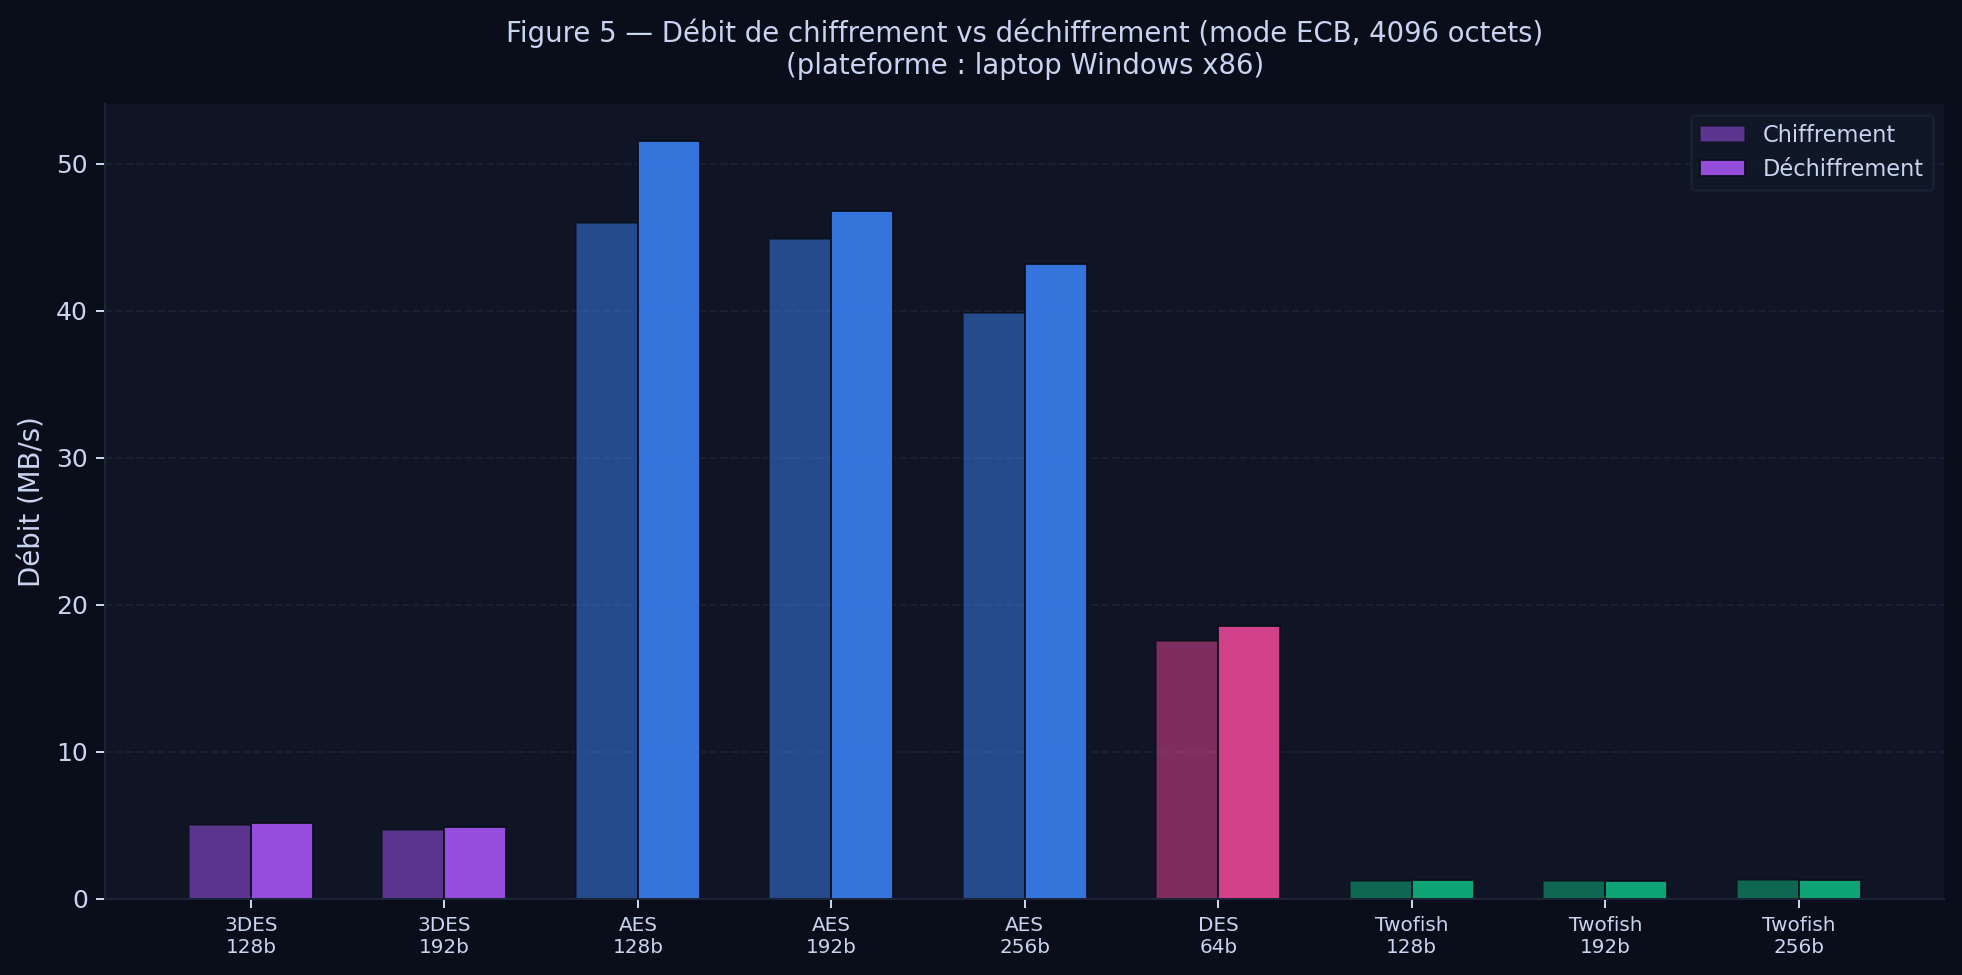
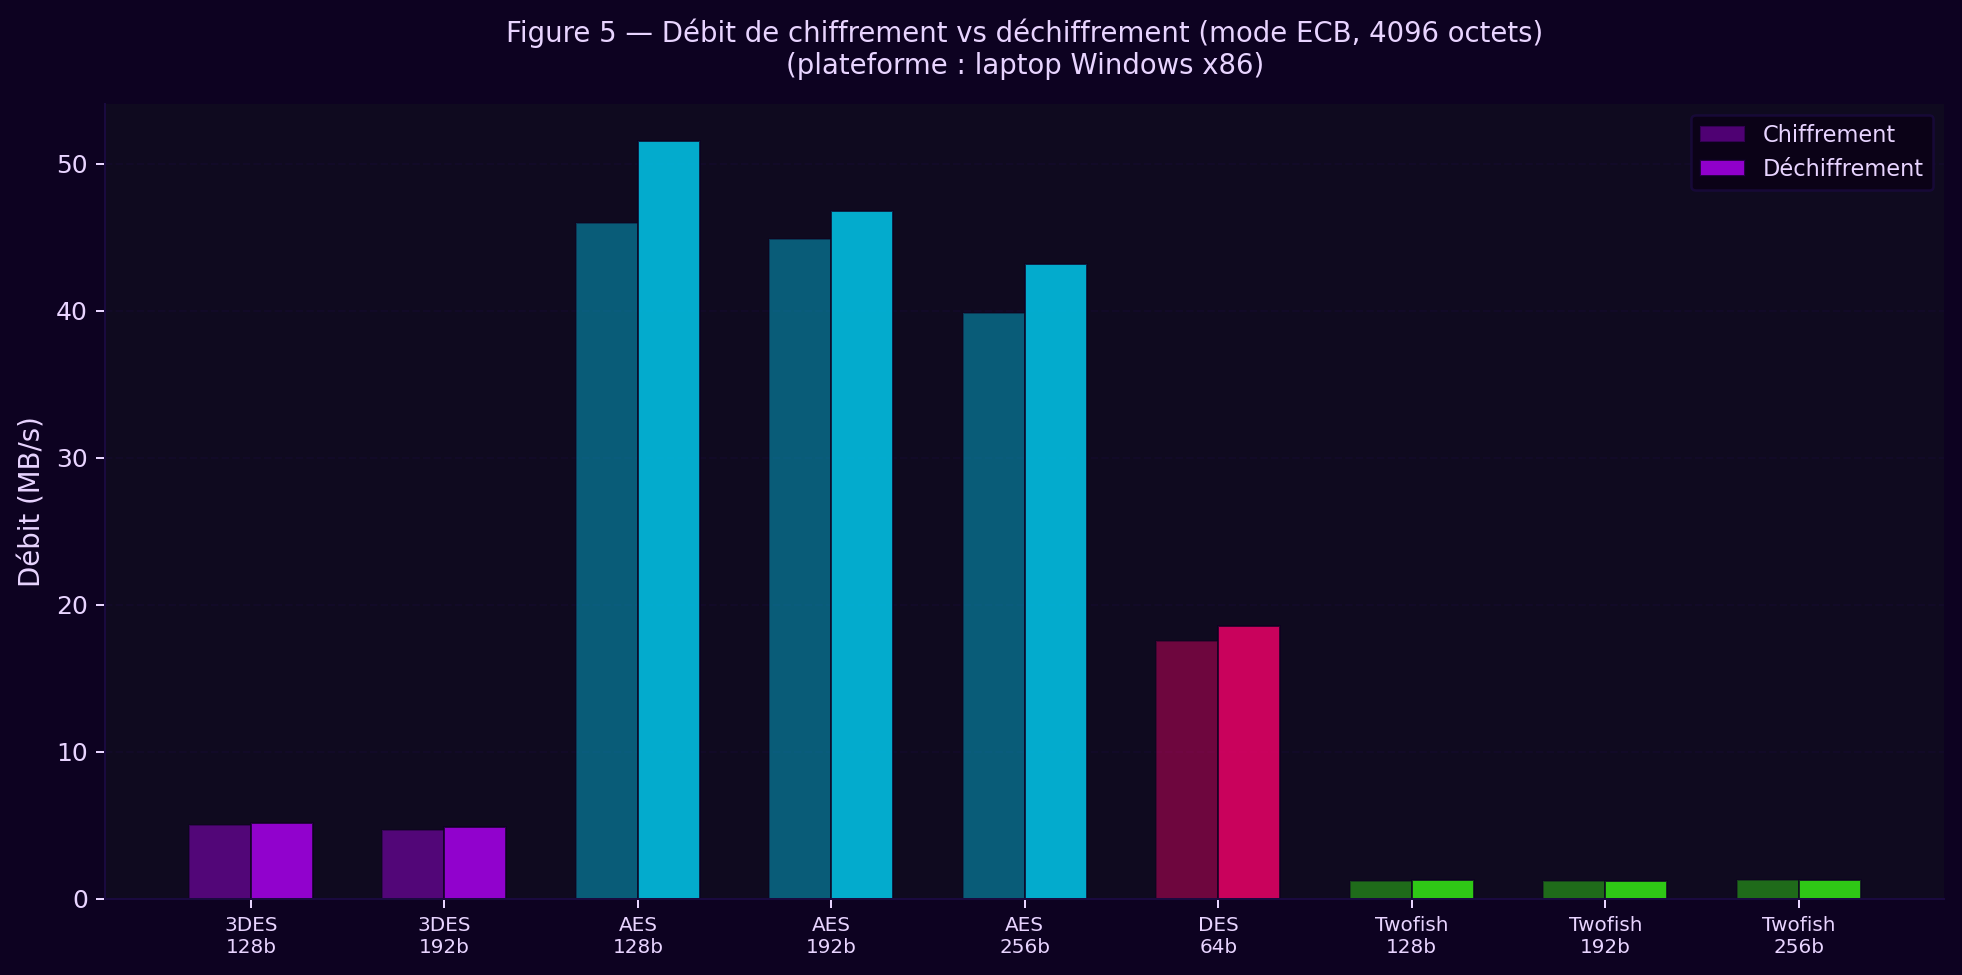
Modernize charts with cyberpunk neon aesthetic ✨
- Updated color palette to vibrant neon colors:
  * Deep purple backgrounds (#0D0221, #0F0A1F)
  * Neon cyan, hot magenta, electric purple, lime green, neon pink
  * Subtle soft lavender text for contrast
- Increased translucency for modern glass/layered effect:
  * Bar alpha: 0.82 → 0.7 (more transparent)
  * Lines alpha: 0.92 → 0.85 (layered effect)
  * Grid alpha: 0.8 → 0.3 (subtle background)
  * Paired bars: 0.50 → 0.4, 0.88 → 0.78 (better contrast)
- Regenerated all 12 charts with new palette and effects

diff --git a/crypto-experiments/scripts/generate_charts.py b/crypto-experiments/scripts/generate_charts.py
@@ -61,12 +61,12 @@ with open(CSV_PATH, newline="", encoding="utf-8") as f:
         })
 
 # ---------------------------------------------------------------------------
-# Palette — couleurs cohérentes par algorithme
+# Palette — couleurs cohérentes par algorithme (cyberpunk neon)
 # ---------------------------------------------------------------------------
-BG_COLOR    = "#0A0E1A"
-PANEL_COLOR = "#0F1524"
-GRID_COLOR  = "#1C2438"
-TEXT_COLOR  = "#C9D4F0"
+BG_COLOR    = "#0D0221"    # deep dark navy/purple
+PANEL_COLOR = "#0F0A1F"    # slightly lighter dark purple
+GRID_COLOR  = "#1a0a3f"    # neon-lit grid
+TEXT_COLOR  = "#E8D4FF"    # soft lavender
 
 plt.rcParams.update({
     "figure.facecolor":  BG_COLOR,
@@ -79,26 +79,26 @@ plt.rcParams.update({
     "text.color":        TEXT_COLOR,
     "grid.color":        GRID_COLOR,
     "grid.linestyle":    "--",
-    "grid.alpha":        0.8,
-    "legend.facecolor":  "#111827",
-    "legend.edgecolor":  "#1C2438",
+    "grid.alpha":        0.3,
+    "legend.facecolor":  "#0a0015",
+    "legend.edgecolor":  "#1a0a3f",
     "legend.labelcolor": TEXT_COLOR,
     "font.family":       "DejaVu Sans",
     "axes.titlepad":     12,
 })
 
 ALGO_COLORS = {
-    "AES":      "#3B82F6",   # vivid blue
-    "DES":      "#EC4899",   # hot pink
-    "3DES":     "#A855F7",   # purple
-    "Twofish":  "#10B981",   # emerald green
-    "ChaCha20": "#06B6D4",   # cyan
+    "AES":      "#00D9FF",   # neon cyan
+    "DES":      "#FF006E",   # hot magenta
+    "3DES":     "#B700FF",   # electric purple
+    "Twofish":  "#39FF14",   # neon lime
+    "ChaCha20": "#FF10F0",   # neon pink
 }
 MODE_COLORS = {
-    "ECB": "#3B82F6",   # blue
-    "CBC": "#EC4899",   # pink
-    "CTR": "#10B981",   # green
-    "GCM": "#F59E0B",   # amber
+    "ECB": "#00D9FF",   # neon cyan
+    "CBC": "#FF006E",   # hot magenta
+    "CTR": "#39FF14",   # neon lime
+    "GCM": "#FFB700",   # neon orange
 }
 MODE_HATCH = {"ECB": "", "CBC": "//", "CTR": "xx", "GCM": ".."}
 
@@ -207,7 +207,7 @@ def fig2_throughput_vs_size():
         sizes = [r["message_size_bytes"] for r in subset]
         mbps  = [r["throughput_enc_mbps"] for r in subset]
         ax.plot(sizes, mbps, marker="o", label=f"{algo}-{key_bits}b",
-                color=ALGO_COLORS[algo], linewidth=2.2, markersize=5, alpha=0.92)
+                color=ALGO_COLORS[algo], linewidth=2.2, markersize=5, alpha=0.85)
 
     ax.set_xscale("log", base=2)
     ax.set_xticks(msg_sizes)
@@ -246,7 +246,7 @@ def fig3_aes_mode_comparison():
         sizes = [r["message_size_bytes"] for r in subset]
         mbps  = [r["throughput_enc_mbps"] for r in subset]
         ax.plot(sizes, mbps, marker="o", label=mode,
-                color=MODE_COLORS[mode], linewidth=2.2, markersize=5, alpha=0.92)
+                color=MODE_COLORS[mode], linewidth=2.2, markersize=5, alpha=0.85)
 
     ax.set_xscale("log", base=2)
     ax.set_xticks(msg_sizes)
@@ -283,7 +283,7 @@ def fig4_avalanche():
     fig.patch.set_facecolor(BG_COLOR)
     bars = ax.bar(algos, means, yerr=stdevs, color=colors, capsize=6,
                   edgecolor=BG_COLOR, linewidth=0.8, width=0.5,
-                  alpha=0.82,
+                  alpha=0.7,
                   error_kw={"linewidth": 1.5, "ecolor": TEXT_COLOR})
     ax.axhline(0.5, color="#475569", linestyle="--", linewidth=1.4,
                label="Valeur idéale (0,50)")
@@ -376,9 +376,9 @@ def fig5_enc_vs_dec():
     fig, ax = plt.subplots(figsize=(FIG_W, 5.5))
     fig.patch.set_facecolor(BG_COLOR)
     ax.bar(x - w/2, enc_vals, w, label="Chiffrement",
-           color=colors, edgecolor=BG_COLOR, linewidth=0.8, alpha=0.50)
+           color=colors, edgecolor=BG_COLOR, linewidth=0.8, alpha=0.4)
     ax.bar(x + w/2, dec_vals, w, label="Déchiffrement",
-           color=colors, edgecolor=BG_COLOR, linewidth=0.8, alpha=0.88)
+           color=colors, edgecolor=BG_COLOR, linewidth=0.8, alpha=0.78)
 
     ax.set_xticks(x)
     ax.set_xticklabels(labels, fontsize=8)
@@ -417,7 +417,7 @@ def fig6_key_size_impact():
             vals.append(match[0]["throughput_enc_mbps"] if match else 0)
         ax.bar(x + offset, vals, w, label=mode,
                color=MODE_COLORS.get(mode, "#888"),
-               edgecolor=BG_COLOR, linewidth=0.8, alpha=0.82)
+               edgecolor=BG_COLOR, linewidth=0.8, alpha=0.7)
 
     ax.set_xticks(x)
     ax.set_xticklabels([f"{k} bits" for k in key_bits])
@@ -468,7 +468,7 @@ def algo_profile(algo_name):
             vals.append(match[0]["throughput_enc_mbps"] if match else 0)
         ax1.bar(x + offset, vals, w, label=mode,
                color=MODE_COLORS.get(mode, "#888"),
-               edgecolor=BG_COLOR, linewidth=0.8, alpha=0.82)
+               edgecolor=BG_COLOR, linewidth=0.8, alpha=0.7)
     
     ax1.set_xticks(x)
     ax1.set_xticklabels([f"{k} bits" for k in key_bits_list])
@@ -486,9 +486,9 @@ def algo_profile(algo_name):
             vals.append(match[0]["avalanche_score"] if match else 0)
         ax2.bar(x + offset, vals, w, label=mode,
                color=MODE_COLORS.get(mode, "#888"),
-               edgecolor=BG_COLOR, linewidth=0.8, alpha=0.82)
+               edgecolor=BG_COLOR, linewidth=0.8, alpha=0.7)
     
-    ax2.axhline(0.5, color="#475569", linestyle="--", linewidth=1.2, alpha=0.7)
+    ax2.axhline(0.5, color="#888888", linestyle="--", linewidth=1.2, alpha=0.3)
     ax2.set_xticks(x)
     ax2.set_xticklabels([f"{k} bits" for k in key_bits_list])
     ax2.set_xlabel("Taille de clé", fontsize=10)
